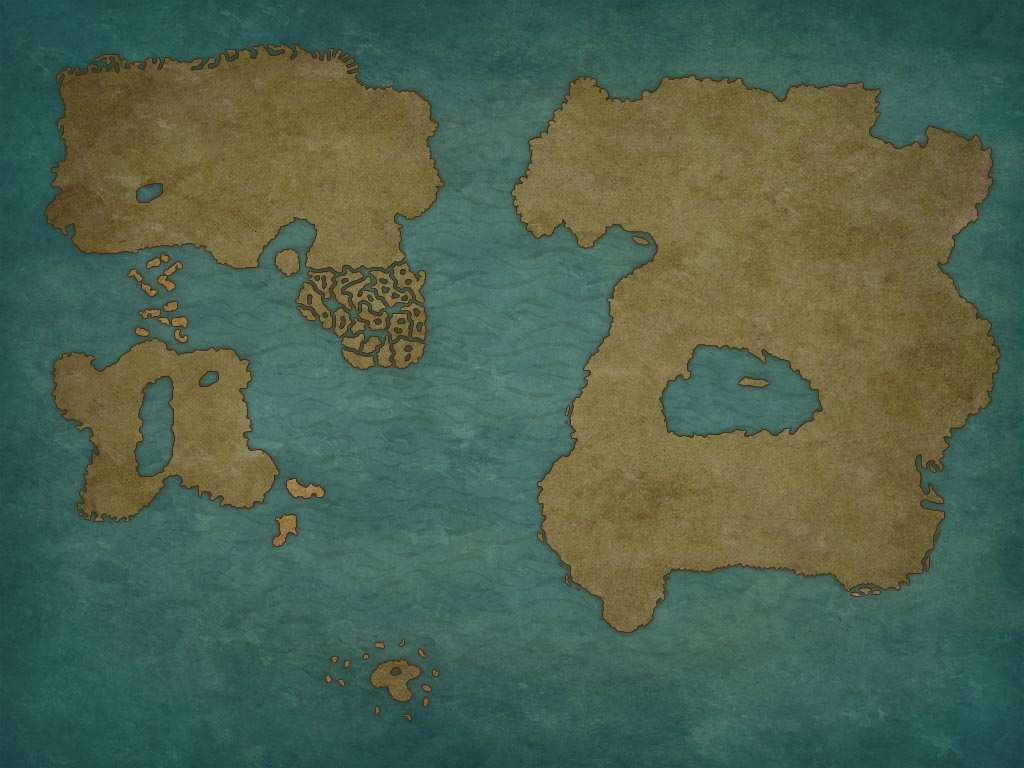
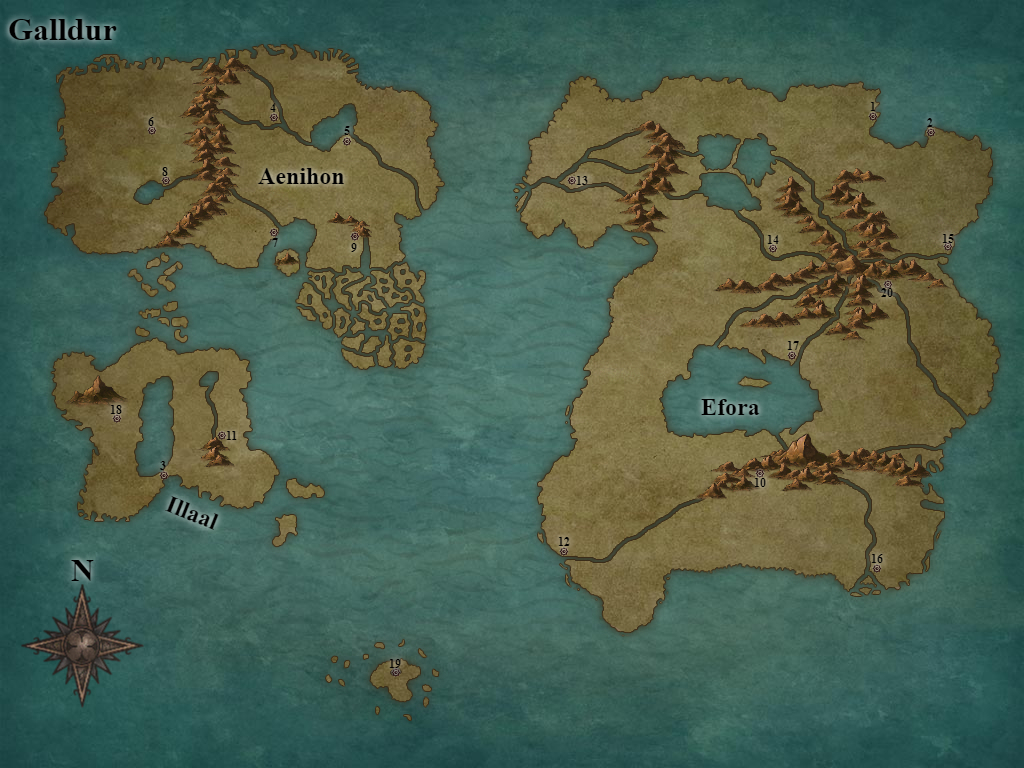
Worldbuilding/Anguished Update
Added some more text

diff --git a/world.html b/world.html
@@ -49,11 +49,11 @@
     <div class="container h-100">
       <div class="row h-100 align-items-center justify-content-center text-center">
         <div class="col-lg-10 align-self-end">
-          <h1 class="text-uppercase text-white font-weight-bold">Worldbuilding a TTRPG Game Setting</h1>
+          <h1 class="text-uppercase text-white font-weight-bold">Galldur - A Tabletop Role-Playing Game Setting</h1>
           <hr class="divider my-4">
         </div>
         <div class="col-lg-8 align-self-baseline">
-          <p class="text-white-75 font-weight-light mb-5"></p>
+          <p class="text-white-75 font-weight-light mb-5">Galldur is a personal project of mine, born out of my interest in tabletop role-playing games and gamemastering. It is currently a work in progress, but I am always adding more to it.</p>
           <a class="btn btn-primary btn-xl js-scroll-trigger" href="#about">Details</a>
         </div>
       </div>
@@ -65,9 +65,9 @@
     <div class="container">
       <div class="row justify-content-center">
         <div class="col-lg-8 text-center">
-          <h2 class="text-white mt-0"></h2>
+          <h2 class="text-white mt-0">Details</h2>
           <hr class="divider light my-4">
-          <p class="text-white-50 mb-4"></p>
+          <p class="text-white-50 mb-4">Vaguely inspired by Numenera, Galldur is a world fraught with magic and mystery. The full gist of it is on the <a href="https://www.worldanvil.com/w/galldur-micbran">Worldanvil website</a>. The project itself is an exercise in writing and creativity.</p>
         </div>
       </div>
     </div>

diff --git a/anguished.html b/anguished.html
@@ -53,7 +53,7 @@
           <hr class="divider my-4">
         </div>
         <div class="col-lg-8 align-self-baseline">
-          <p class="text-white-75 font-weight-light mb-5"></p>
+          <p class="text-white-75 font-weight-light mb-5">Anguished is an addon for the roguelike <a href="https://te4.org/">Tales of Maj'Eyal</a>. The addon behaves much like a mod in a typical game, adding or changing content that appears in the game. In the case of Anguished, it adds a new playable "class" (a set of abilities) for the player to play as.</p>
           <a class="btn btn-primary btn-xl js-scroll-trigger" href="#about">Details</a>
         </div>
       </div>

diff --git a/index.html b/index.html
@@ -206,7 +206,7 @@
                 Worldbuilding Solo Project
               </div>
               <div class="project-name">
-                Undecided - Setting for TTRPG
+                Galldur - Setting for a Tabletop Role-Playing Game
               </div>
             </div>
           </a>
